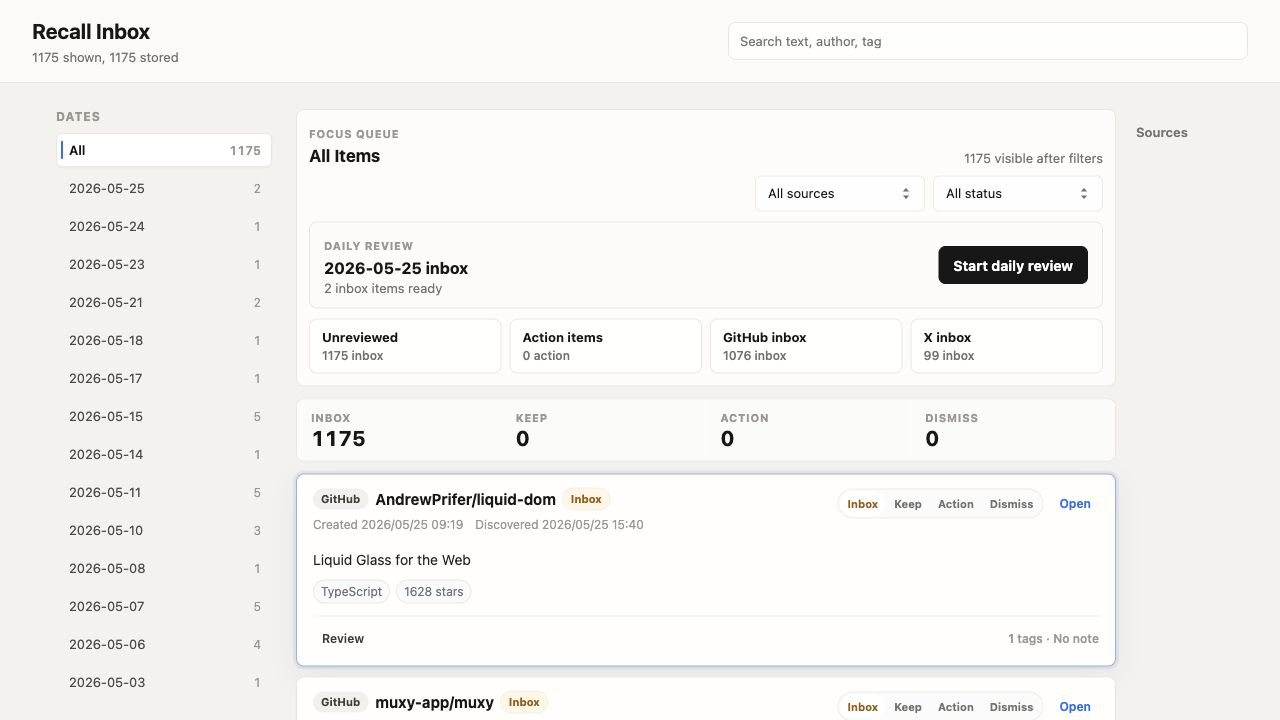
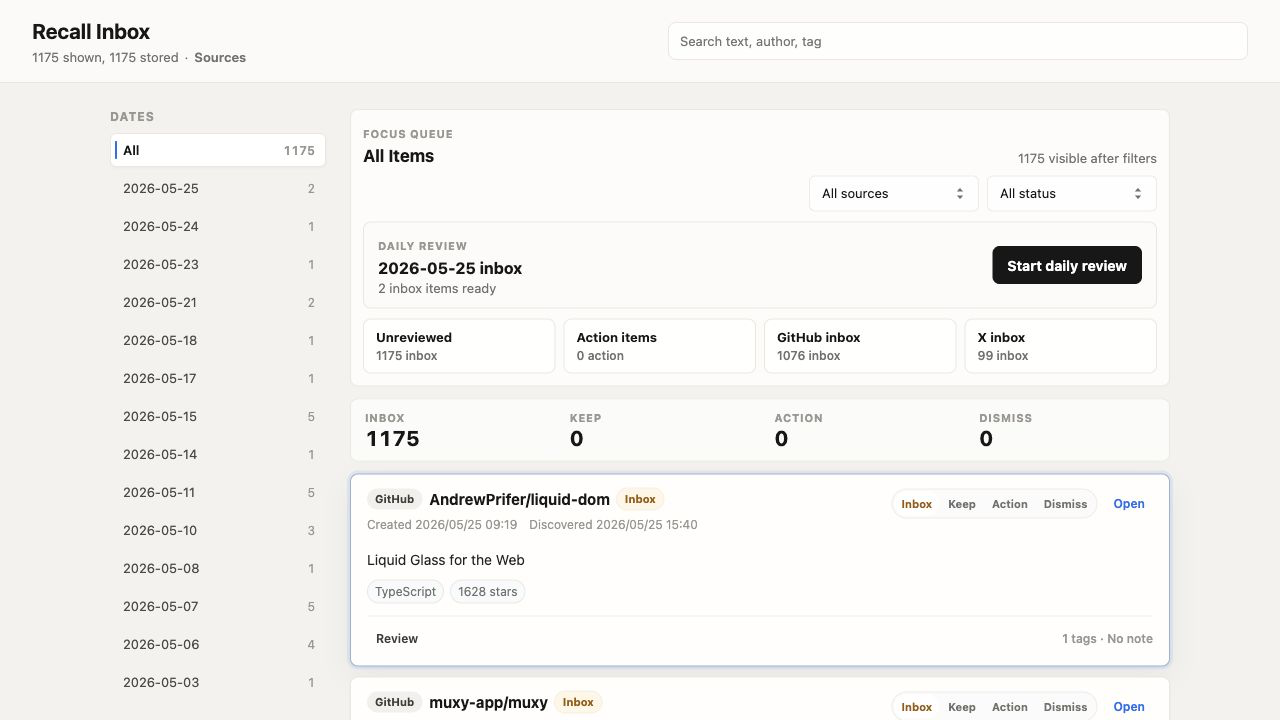
Move sources link into summary

diff --git a/src/view/client/src/App.tsx b/src/view/client/src/App.tsx
@@ -726,11 +726,15 @@ export function App() {
         <div className="topbar-title">
           <h1>Recall Inbox</h1>
           <p id="summary">
-            {loadError
-              ? "Failed to load local items."
-              : loadingItems
-                ? "Loading items..."
-                : `${filteredItems.length} shown, ${items.length} stored`}
+            <span>
+              {loadError
+                ? "Failed to load local items."
+                : loadingItems
+                  ? "Loading items..."
+                  : `${filteredItems.length} shown, ${items.length} stored`}
+            </span>
+            <span aria-hidden="true">·</span>
+            {sourceControls}
           </p>
         </div>
         <div className="toolbar">
@@ -751,7 +755,6 @@ export function App() {
               onValueChange={changeDate}
             />
           </div>
-          {sourceControls}
         </div>
       </header>
 

diff --git a/tests/view-static.test.ts b/tests/view-static.test.ts
@@ -206,11 +206,14 @@ test("review page keeps filters and review controls visually quiet", async () =>
   assert.match(app, /className="workflow-filters"/);
   assert.match(app, /className="review-trigger-label"/);
   assert.match(app, /className="review-editor"/);
+  assert.match(app, /<p id="summary">[\s\S]*\{sourceControls\}[\s\S]*<\/p>/);
   assert.match(css, /\.toolbar-panel\s*{[\s\S]*background: color-mix\(in srgb, var\(--surface\) 70%, transparent\);/);
   assert.match(css, /\.toolbar-panel\s*{[\s\S]*border: 1px solid var\(--border-soft\);/);
   assert.match(css, /\.toolbar\s*{[\s\S]*max-width: 580px;/);
   assert.match(css, /\.toolbar-panel\s*{[\s\S]*grid-template-columns: minmax\(220px, 1fr\);/);
   assert.match(css, /#search\s*{[\s\S]*height: 36px;/);
+  assert.match(css, /#summary\s*{[\s\S]*display: flex;/);
+  assert.match(css, /#summary\s*{[\s\S]*gap: 6px;/);
   assert.match(css, /\.workflow-filters/);
   assert.match(css, /\.workflow-filters \.select-trigger/);
   assert.match(css, /\.toolbar \.select-trigger\s*{[\s\S]*background: transparent;/);
@@ -232,6 +235,7 @@ test("review page separates source setup, workflow, card hierarchy, and first-ru
   assert.doesNotMatch(app, /className="toolbar-meta"/);
   assert.doesNotMatch(app, /className="side-tools"/);
   assert.match(app, /<Dialog\.Trigger className="source-text-trigger">Sources<\/Dialog\.Trigger>/);
+  assert.doesNotMatch(app, /<\/div>\s*\{sourceControls\}\s*<\/div>\s*<\/header>/);
   assert.match(app, /className="workflow-board"/);
   assert.match(app, /aria-label="Review filters"/);
   assert.match(app, /className="queue-header"/);

diff --git a/src/view/client/src/styles.css b/src/view/client/src/styles.css
@@ -280,8 +280,11 @@ p {
 }
 
 #summary {
+  align-items: center;
   color: var(--text-muted);
+  display: flex;
   font-size: 13px;
+  gap: 6px;
 }
 
 #search {